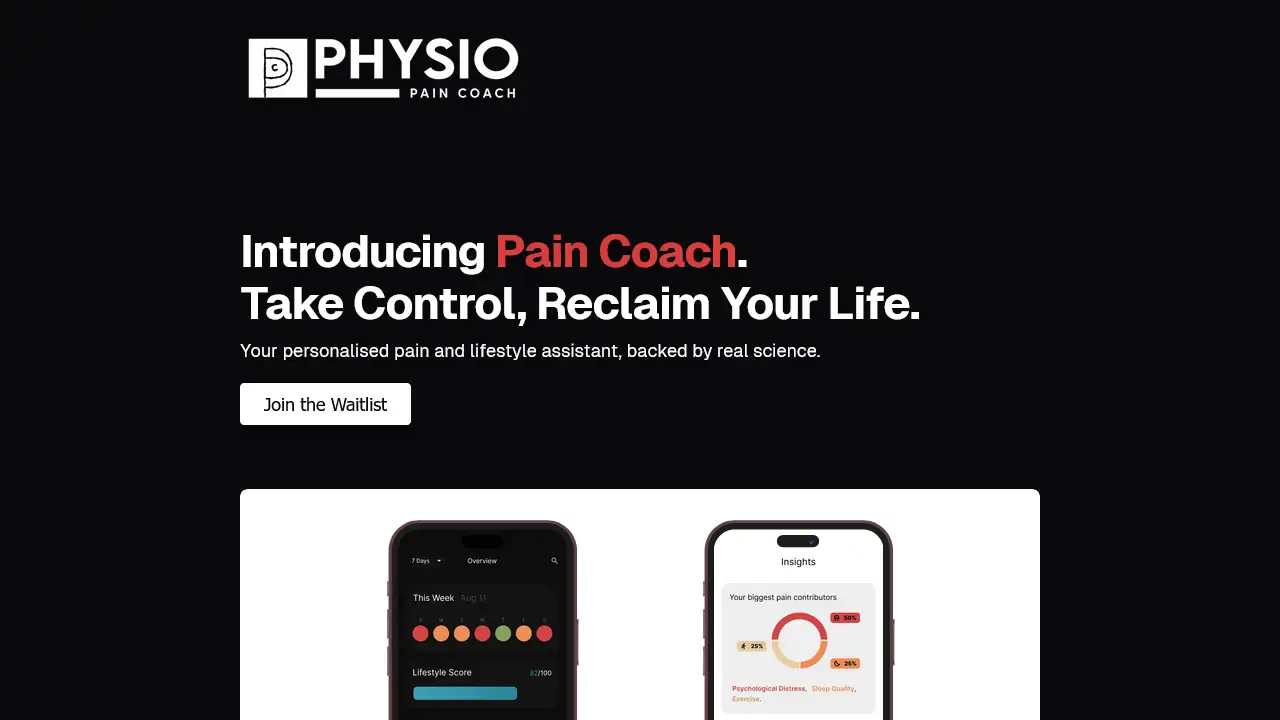
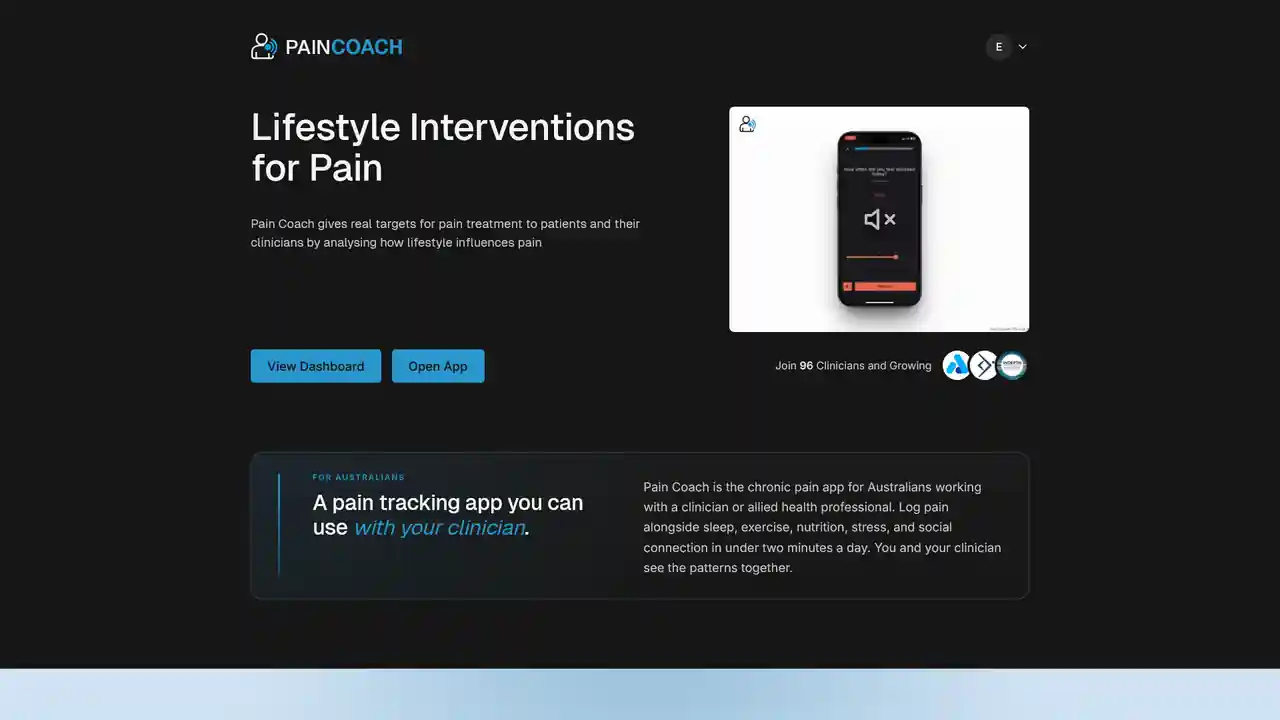
chore: update type

diff --git a/pages/work/[slug].vue b/pages/work/[slug].vue
@@ -56,15 +56,19 @@
                     </div>
                 </div>
             </section>
-            <button class="video" @click.prevent="toggleVideo" :class="{ paused: !demoVideoActive }">
+            <button class="video" @click.prevent="toggleVideo" :class="{ paused: !demoVideoActive }" v-if="workHasDemoVideo">
                 <div class="controls">
                     <svg v-if="demoVideoActive" class="pause" xmlns="http://www.w3.org/2000/svg" width="32" height="32" viewBox="0 0 24 24"><path d="M8 19c1.1 0 2-.9 2-2V7c0-1.1-.9-2-2-2s-2 .9-2 2v10c0 1.1.9 2 2 2m6-12v10c0 1.1.9 2 2 2s2-.9 2-2V7c0-1.1-.9-2-2-2s-2 .9-2 2"/></svg>
                     <svg v-else class="play" xmlns="http://www.w3.org/2000/svg" width="32" height="32" viewBox="0 0 24 24"><path d="M8 6.82v10.36c0 .79.87 1.27 1.54.84l8.14-5.18a1 1 0 0 0 0-1.69L9.54 5.98A.998.998 0 0 0 8 6.82"/></svg>
                 </div>
-                <video autoplay loop muted playsinline ref="demoVideo" >
+                <video autoplay loop muted playsinline ref="demoVideo">
                     <source :src="work?.demoVideoUrl" :alt="work?.demoVideoAlt" type="video/mp4" />
                 </video>
             </button>
+            <!-- Show cover image instead -->
+            <div class="cover-image" v-else>
+                <img :src="work?.coverImageUrl" :alt="work?.coverImageAlt" loading="lazy"/>
+            </div>
             <div class="descriptions">
                 <div v-for="(section, sectionName) in work?.descriptionSections" :key="sectionName">
                     <h3>{{ sectionName }}</h3>
@@ -96,6 +100,10 @@ const work: ComputedRef<Work | undefined> = computed(() => {
     return work;
 });
 const technologies: Ref<Technology[]> = ref(getTechnologies(work.value as Work));
+
+const workHasDemoVideo = computed(() => {
+    return !!work.value?.demoVideoUrl;
+});
 
 const demoVideo = ref<HTMLVideoElement | null>(null);
 const demoVideoActive = ref(true);
@@ -261,7 +269,7 @@ h1.title {
                         }
                     }
 
-                    &.nuxt3 {
+                    &.nuxt {
                         svg {
                             width: 44px;
                             height: 44px;

diff --git a/components/hero.vue b/components/hero.vue
@@ -4,9 +4,8 @@
             <img src="~/assets/images/profile.webp" alt="Evan Kelly, creator of this portfolio!"/>
             <h1>Hi, welcome to my site! <span data-v-1baf8294="">👋</span></h1>
             <p>
-                I'm <a class="name" href="https://www.linkedin.com/in/evan-kelly/">Evan</a>, a fullstack software developer with a passion for creating beautiful, functional apps. 
-                <span class="extra">Currently studying computer science <a target="_blank" href="https://www.linkedin.com/school/griffith-university/">@GriffithUni</a>.
-                I'm seeking new opportunities to leverage my skills and contribute to impactful projects.</span> Let's discuss how I can add value to your team. Just <NuxtLink href="/contact">reach out!</NuxtLink>
+                I'm <a class="name" href="https://github.com/zephkelly">Evan</a>, a fullstack software developer with a passion for creating beautiful, functional apps. 
+                I'm seeking opportunities to leverage my skills and contribute to impactful projects Let's discuss how I can add value to your team. Just <NuxtLink href="/contact">reach out!</NuxtLink>
             </p>
         </div>
     </section>

diff --git a/components/navbar.vue b/components/navbar.vue
@@ -46,11 +46,6 @@
                         <a href="https://github.com/zephkelly" class="github" target="_blank" rel="noopener noreferrer" aria-label="Visit my GitHub profile" tabindex="0" :class="{ 'overlay-active': menuActive }">
                             <svg xmlns="http://www.w3.org/2000/svg" viewBox="0 0 128 128"><g><path fill-rule="evenodd" clip-rule="evenodd" d="M64 5.103c-33.347 0-60.388 27.035-60.388 60.388 0 26.682 17.303 49.317 41.297 57.303 3.017.56 4.125-1.31 4.125-2.905 0-1.44-.056-6.197-.082-11.243-16.8 3.653-20.345-7.125-20.345-7.125-2.747-6.98-6.705-8.836-6.705-8.836-5.48-3.748.413-3.67.413-3.67 6.063.425 9.257 6.223 9.257 6.223 5.386 9.23 14.127 6.562 17.573 5.02.542-3.903 2.107-6.568 3.834-8.076-13.413-1.525-27.514-6.704-27.514-29.843 0-6.593 2.36-11.98 6.223-16.21-.628-1.52-2.695-7.662.584-15.98 0 0 5.07-1.623 16.61 6.19C53.7 35 58.867 34.327 64 34.304c5.13.023 10.3.694 15.127 2.033 11.526-7.813 16.59-6.19 16.59-6.19 3.287 8.317 1.22 14.46.593 15.98 3.872 4.23 6.215 9.617 6.215 16.21 0 23.194-14.127 28.3-27.574 29.796 2.167 1.874 4.097 5.55 4.097 11.183 0 8.08-.07 14.583-.07 16.572 0 1.607 1.088 3.49 4.148 2.897 23.98-7.994 41.263-30.622 41.263-57.294C124.388 32.14 97.35 5.104 64 5.104z"/><path d="M26.484 91.806c-.133.3-.605.39-1.035.185-.44-.196-.685-.605-.543-.906.13-.31.603-.395 1.04-.188.44.197.69.61.537.91zm2.446 2.729c-.287.267-.85.143-1.232-.28-.396-.42-.47-.983-.177-1.254.298-.266.844-.14 1.24.28.394.426.472.984.17 1.255zM31.312 98.012c-.37.258-.976.017-1.35-.52-.37-.538-.37-1.183.01-1.44.373-.258.97-.025 1.35.507.368.545.368 1.19-.01 1.452zm3.261 3.361c-.33.365-1.036.267-1.552-.23-.527-.487-.674-1.18-.343-1.544.336-.366 1.045-.264 1.564.23.527.486.686 1.18.333 1.543zm4.5 1.951c-.147.473-.825.688-1.51.486-.683-.207-1.13-.76-.99-1.238.14-.477.823-.7 1.512-.485.683.206 1.13.756.988 1.237zm4.943.361c.017.498-.563.91-1.28.92-.723.017-1.308-.387-1.315-.877 0-.503.568-.91 1.29-.924.717-.013 1.306.387 1.306.88zm4.598-.782c.086.485-.413.984-1.126 1.117-.7.13-1.35-.172-1.44-.653-.086-.498.422-.997 1.122-1.126.714-.123 1.354.17 1.444.663zm0 0"/></g></svg>
                         </a>
-                        <a href="https://www.linkedin.com/in/evan-kelly/" class="linkedin" target="_blank" rel="noopener noreferrer" aria-label="Connect with me on LinkedIn" tabindex="0" :class="{ 'overlay-active': menuActive }">
-                            <svg xmlns="http://www.w3.org/2000/svg" x="0px" y="0px" viewBox="0 0 50 50">
-                                <path d="M41,4H9C6.24,4,4,6.24,4,9v32c0,2.76,2.24,5,5,5h32c2.76,0,5-2.24,5-5V9C46,6.24,43.76,4,41,4z M17,20v19h-6V20H17z M11,14.47c0-1.4,1.2-2.47,3-2.47s2.93,1.07,3,2.47c0,1.4-1.12,2.53-3,2.53C12.2,17,11,15.87,11,14.47z M39,39h-6c0,0,0-9.26,0-10 c0-2-1-4-3.5-4.04h-0.08C27,24.96,26,27.02,26,29c0,0.91,0,10,0,10h-6V20h6v2.56c0,0,1.93-2.56,5.81-2.56 c3.97,0,7.19,2.73,7.19,8.26V39z"></path>
-                            </svg>
-                        </a>
                     </div>
                 </header>
             </div>

diff --git a/components/technologyIcon.vue b/components/technologyIcon.vue
@@ -67,7 +67,7 @@ function sanitizeSvg(svg: string): string {
     height: 24px;
 }
 
-.nuxt3 {
+.nuxt {
     width: 30px;
     height: 30px;
     margin-left: -6px;

diff --git a/components/work.vue b/components/work.vue
@@ -15,8 +15,6 @@
 
 <script setup lang="ts">
 import { useWorks } from '~/composable/useWorks';
-import { type Technology } from '~/types/technologies.types';
-import { type Work, type WorkCard } from '~/types/work.types';
 
 const { workCards } = useWorks();
 </script>

diff --git a/types/technologies.types.ts b/types/technologies.types.ts
@@ -1,4 +1,4 @@
-export type TechnologiesId = 'ts' | 'css' | 'scss' | 'vue3' | 'nuxt3' | 'express' | 'postgresql' | 'unity3d' | 'csharp' | 'nginx' | 'wix';
+export type TechnologiesId = 'ts' | 'css' | 'scss' | 'vue3' | 'nuxt' | 'express' | 'postgresql' | 'unity3d' | 'csharp' | 'nginx' | 'wix';
 export type TechnologiesLabel = 'Typescript' | 'Css' | 'Scss' | 'Vue 3' | 'Nuxt 3' | 'express' | 'PostgreSQL' | 'Unity3D' | 'C#' | 'NginX' | 'PM2' | 'Wix';
 
 export type Technology = {